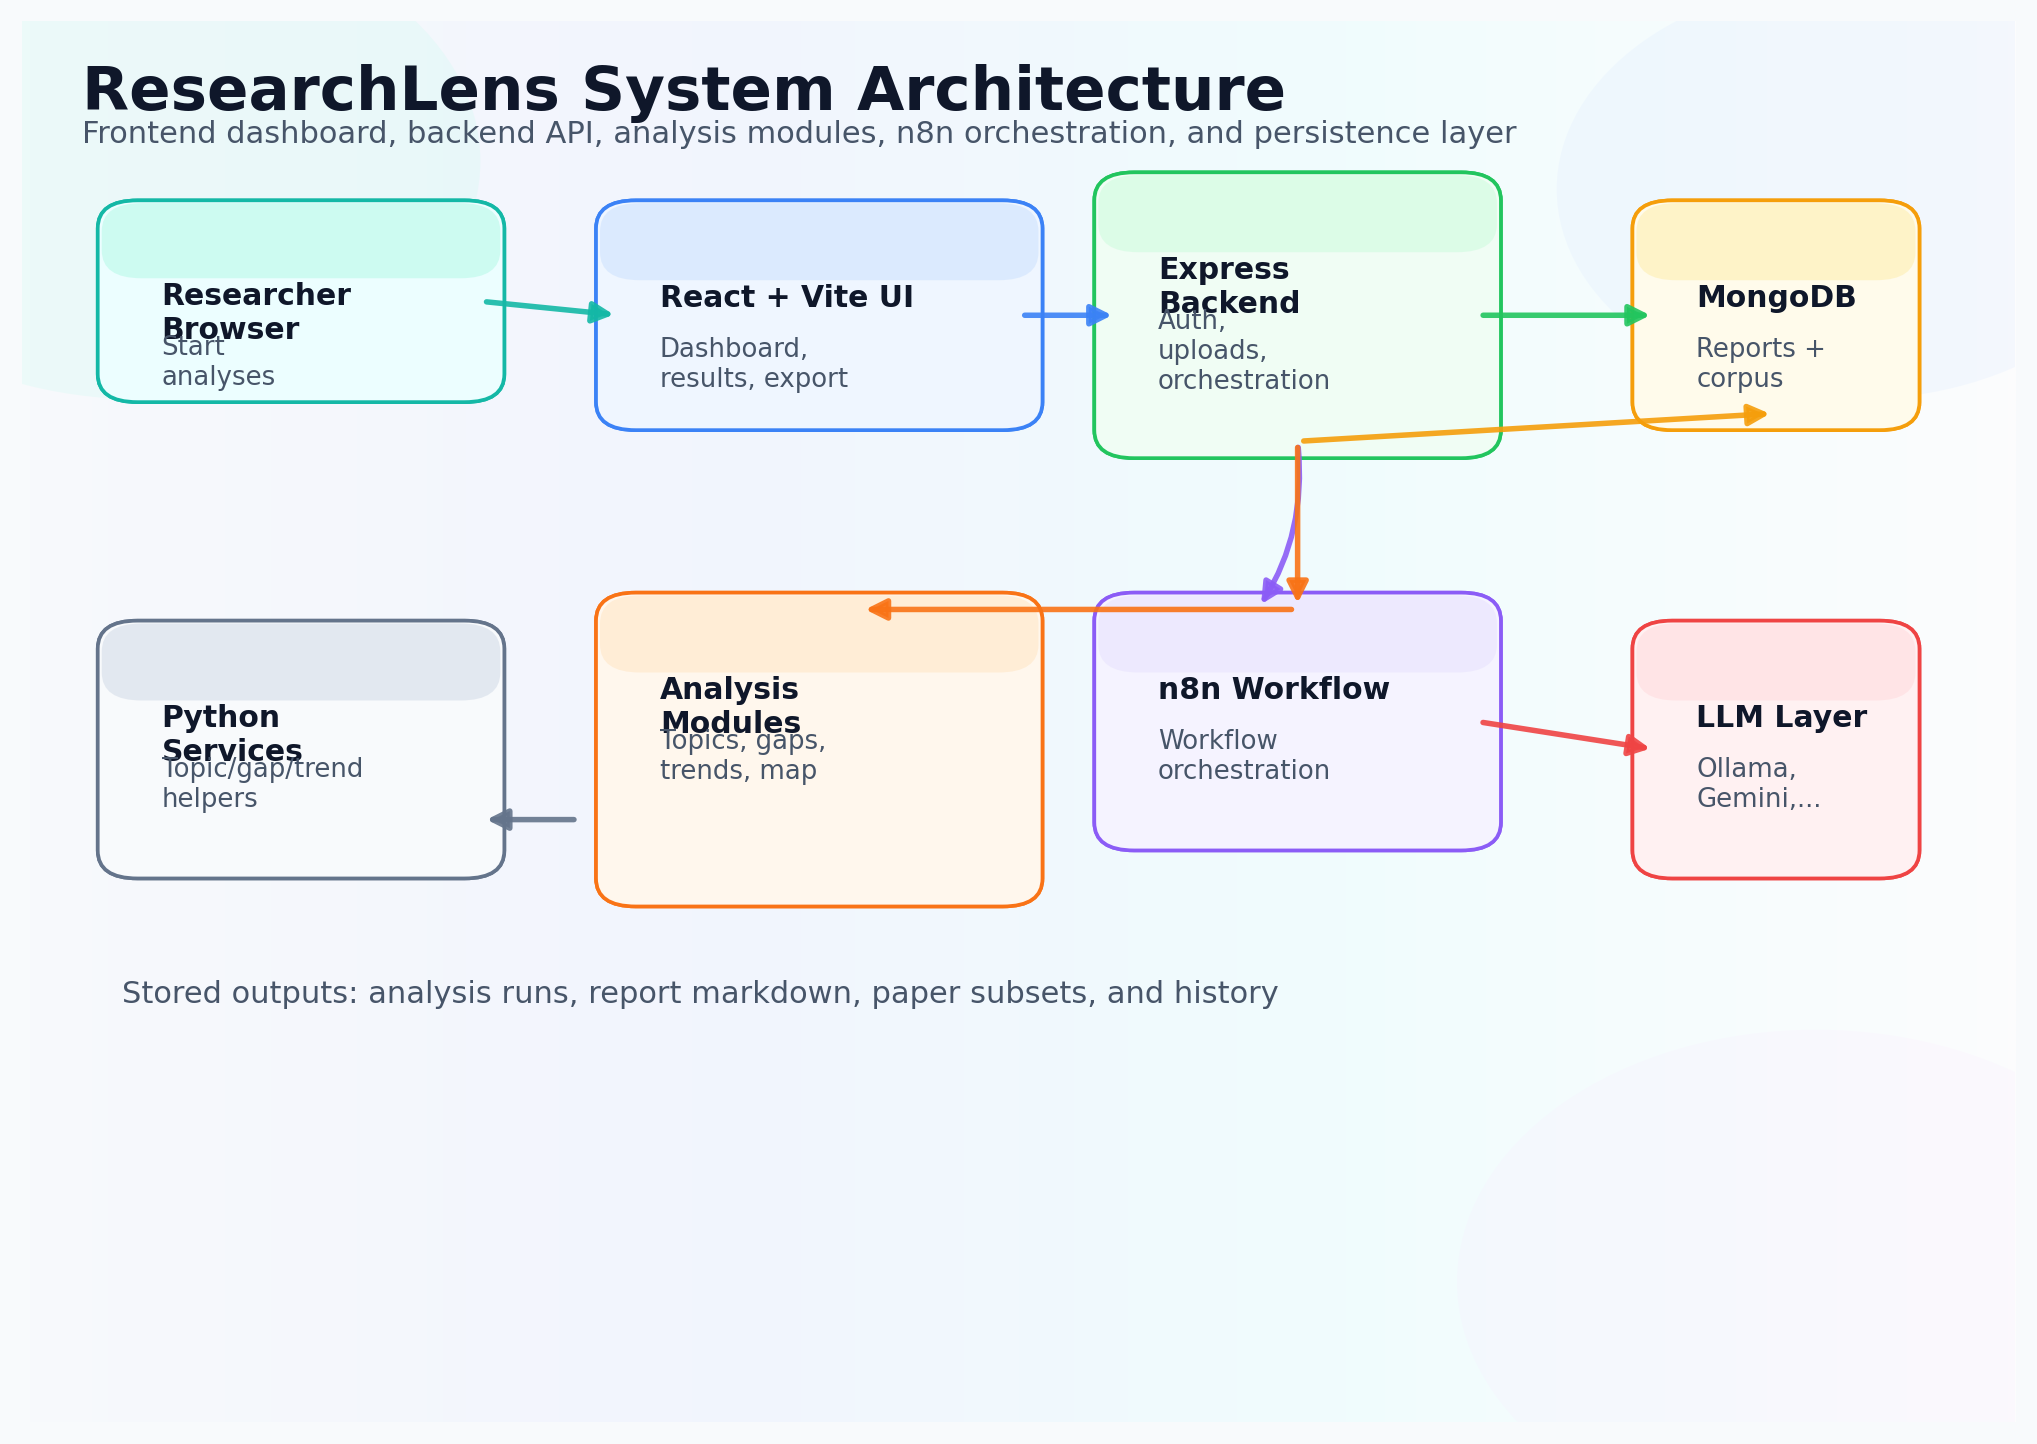
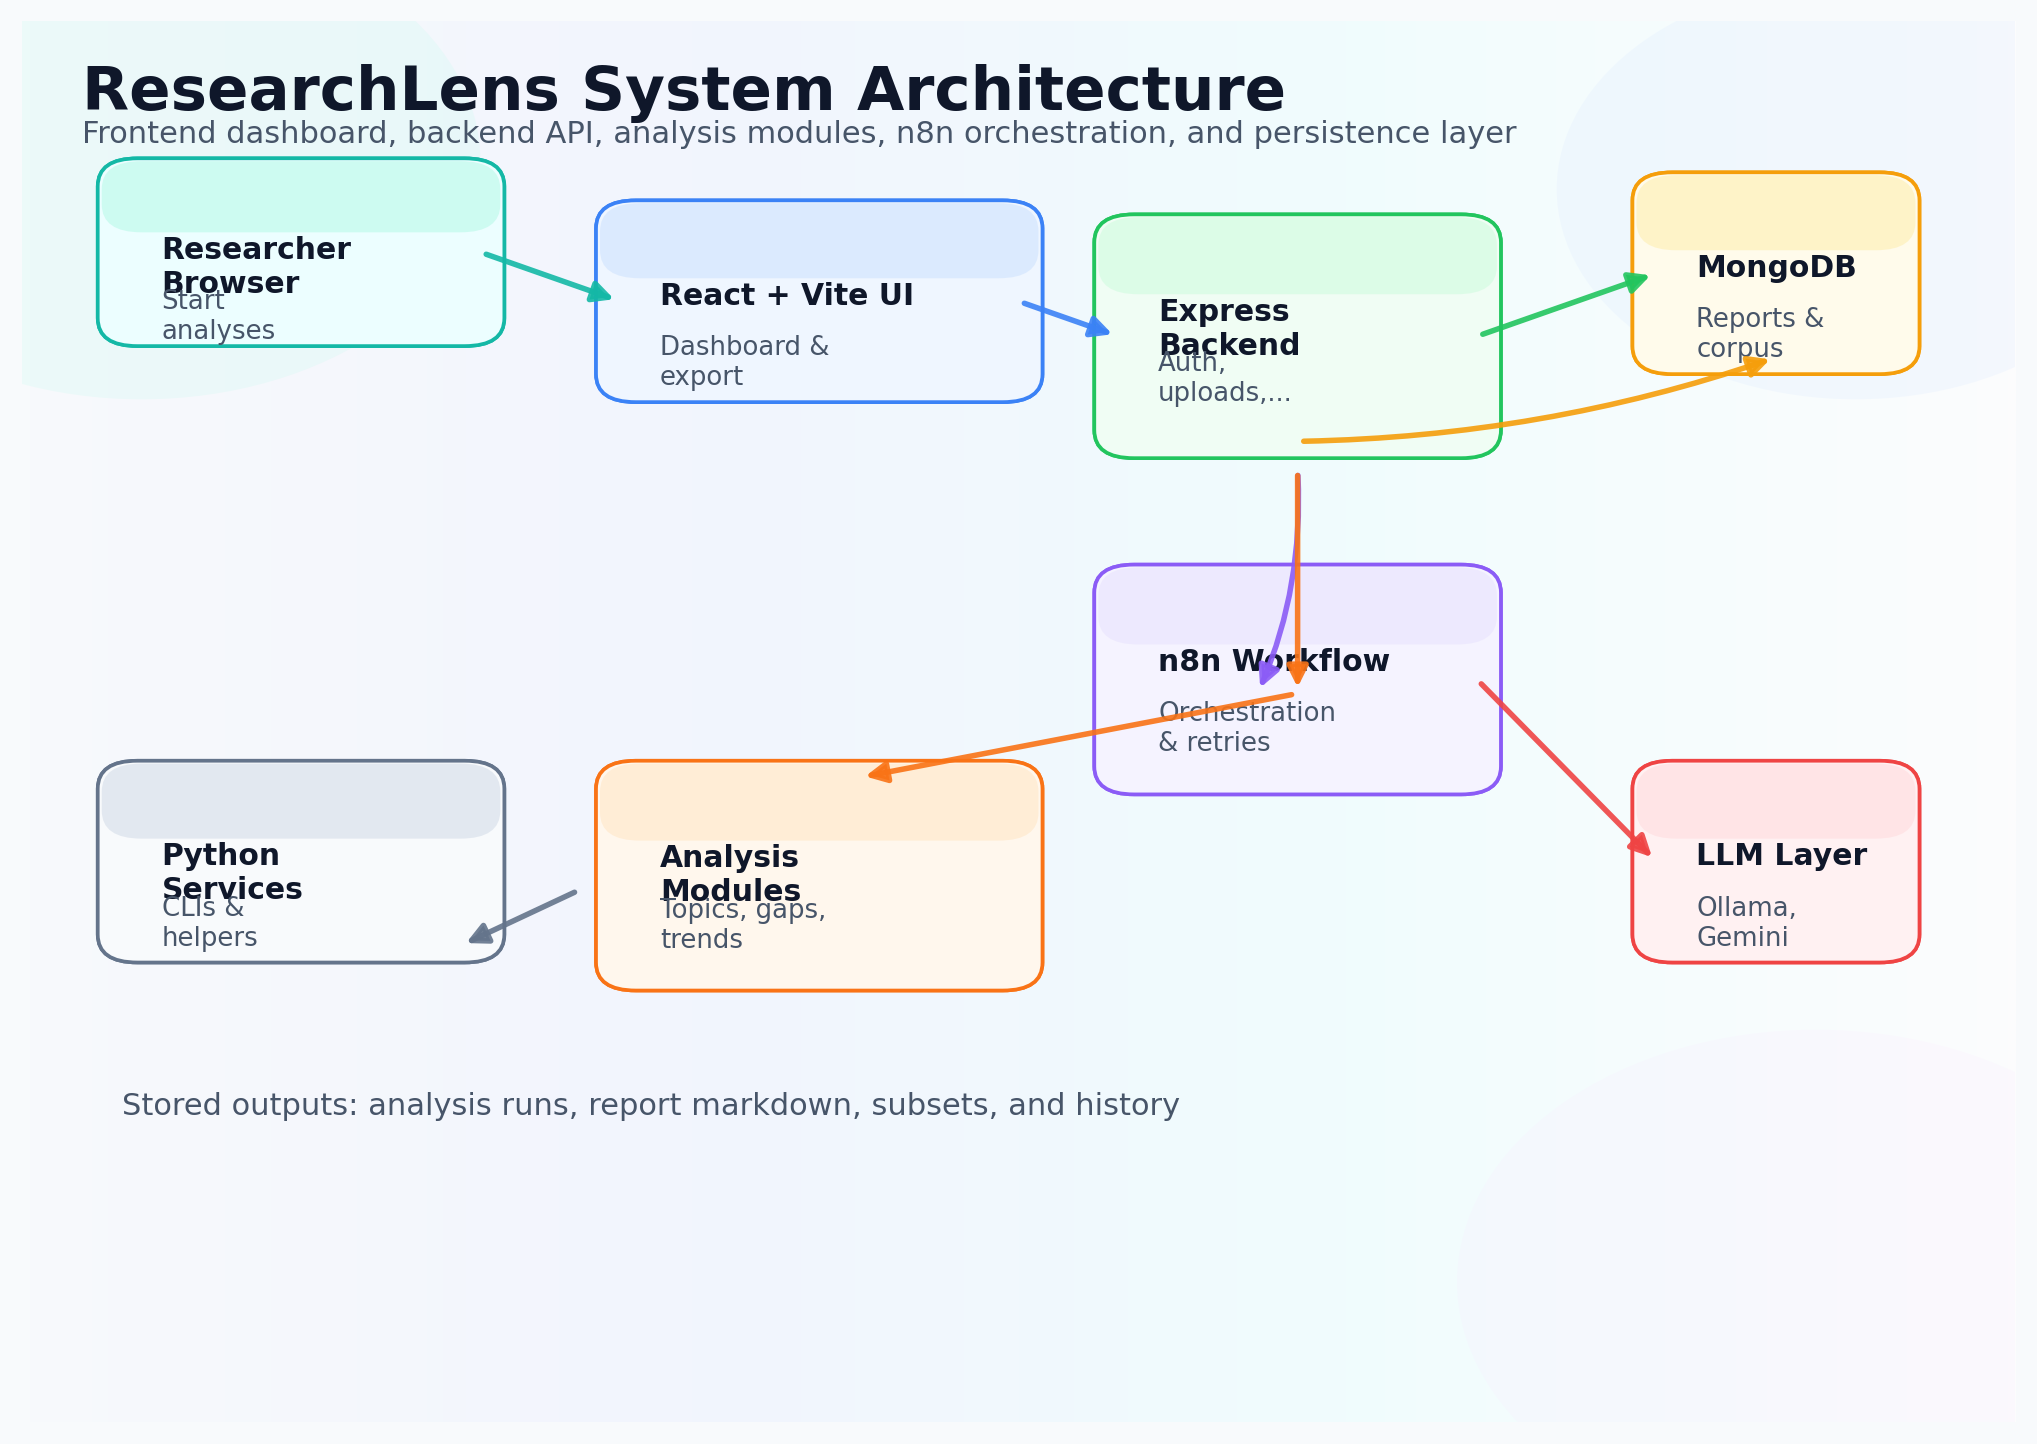
done

diff --git a/generate_researchlens_diagrams.py b/generate_researchlens_diagrams.py
@@ -191,36 +191,38 @@ def generate_system_architecture():
         "ResearchLens System Architecture",
         "Frontend dashboard, backend API, analysis modules, n8n orchestration, and persistence layer",
     )
+    # Increase vertical spacing and slightly reduce box heights to avoid overlap
+    user = (0.05, 0.78, 0.18, 0.11)
+    web = (0.30, 0.74, 0.20, 0.12)
+    api = (0.55, 0.70, 0.18, 0.15)
+    db = (0.82, 0.76, 0.12, 0.12)
+    n8n = (0.55, 0.46, 0.18, 0.14)
+    modules = (0.30, 0.32, 0.20, 0.14)
+    python = (0.05, 0.34, 0.18, 0.12)
+    llm = (0.82, 0.34, 0.12, 0.12)
 
-    user = (0.05, 0.74, 0.18, 0.12)
-    web = (0.30, 0.72, 0.20, 0.14)
-    api = (0.55, 0.70, 0.18, 0.18)
-    db = (0.82, 0.72, 0.12, 0.14)
-    n8n = (0.55, 0.42, 0.18, 0.16)
-    modules = (0.30, 0.38, 0.20, 0.20)
-    python = (0.05, 0.40, 0.18, 0.16)
-    llm = (0.82, 0.40, 0.12, 0.16)
-
+    # Use shorter descriptions and slightly smaller internal text to reduce crowding
     gradient_card(ax, *user, "Researcher Browser", "Start analyses", "", GRADIENTS["teal"])
-    gradient_card(ax, *web, "React + Vite UI", "Dashboard, results, export", "", GRADIENTS["blue"])
+    gradient_card(ax, *web, "React + Vite UI", "Dashboard & export", "", GRADIENTS["blue"])
     gradient_card(ax, *api, "Express Backend", "Auth, uploads, orchestration", "", GRADIENTS["green"])
-    gradient_card(ax, *db, "MongoDB", "Reports + corpus", "", GRADIENTS["amber"])
-    gradient_card(ax, *n8n, "n8n Workflow", "Workflow orchestration", "", GRADIENTS["purple"])
-    gradient_card(ax, *modules, "Analysis Modules", "Topics, gaps, trends, map", "", GRADIENTS["orange"])
-    gradient_card(ax, *python, "Python Services", "Topic/gap/trend helpers", "", GRADIENTS["slate"])
-    gradient_card(ax, *llm, "LLM Layer", "Ollama, Gemini, OpenAI", "", GRADIENTS["rose"])
+    gradient_card(ax, *db, "MongoDB", "Reports & corpus", "", GRADIENTS["amber"])
+    gradient_card(ax, *n8n, "n8n Workflow", "Orchestration & retries", "", GRADIENTS["purple"])
+    gradient_card(ax, *modules, "Analysis Modules", "Topics, gaps, trends", "", GRADIENTS["orange"])
+    gradient_card(ax, *python, "Python Services", "CLIs & helpers", "", GRADIENTS["slate"])
+    gradient_card(ax, *llm, "LLM Layer", "Ollama, Gemini", "", GRADIENTS["rose"])
 
+    # Clearer connector routing with reduced curvature where boxes are closer
     connect_boxes(ax, user, web, color=TEAL)
     connect_boxes(ax, web, api, color=BLUE)
     connect_boxes(ax, api, db, color=GREEN)
-    add_arrow(ax, (0.64, 0.70), (0.62, 0.58), color=PURPLE, rad=-0.18)
-    add_arrow(ax, (0.64, 0.70), (0.64, 0.58), color=ORANGE)
-    add_arrow(ax, (0.64, 0.58), (0.42, 0.58), color=ORANGE)
-    add_arrow(ax, (0.28, 0.43), (0.23, 0.43), color=SLATE)
+    add_arrow(ax, (0.64, 0.68), (0.62, 0.52), color=PURPLE, rad=-0.12)
+    add_arrow(ax, (0.64, 0.68), (0.64, 0.52), color=ORANGE)
+    add_arrow(ax, (0.64, 0.52), (0.42, 0.46), color=ORANGE)
+    add_arrow(ax, (0.28, 0.38), (0.22, 0.34), color=SLATE)
     connect_boxes(ax, n8n, llm, color=ROSE)
-    add_arrow(ax, (0.64, 0.70), (0.88, 0.72), color=AMBER, rad=0.0)
+    add_arrow(ax, (0.64, 0.70), (0.88, 0.76), color=AMBER, rad=0.08)
 
-    ax.text(0.05, 0.30, "Stored outputs: analysis runs, report markdown, paper subsets, and history", fontsize=10, color=MUTED)
+    ax.text(0.05, 0.22, "Stored outputs: analysis runs, report markdown, subsets, and history", fontsize=10, color=MUTED)
 
     save(fig, "system_architecture")
 
